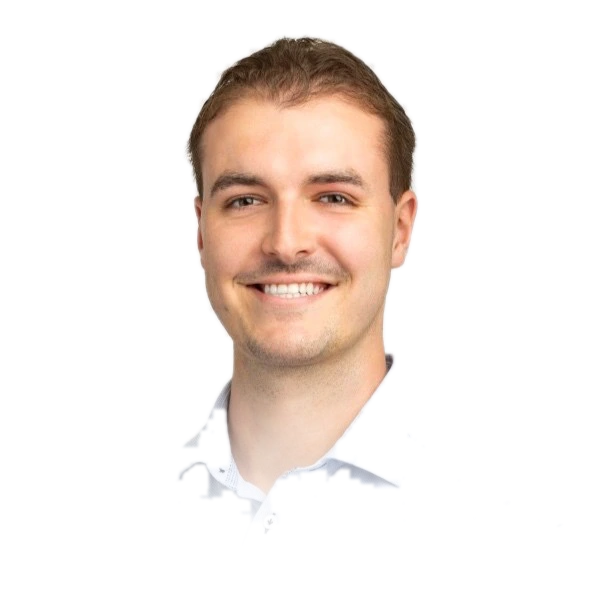
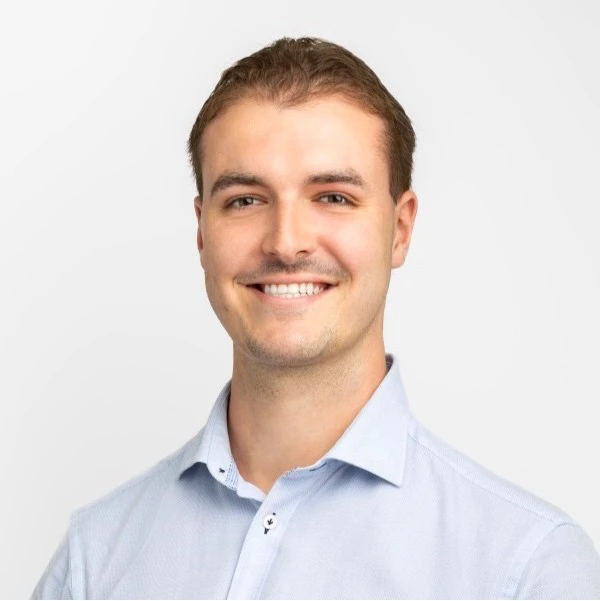
feat: portfolio polish - real photo, career facts, Daily OS diagram
Hero: swapped the background-removed cutout for the original photo
(framed, not floating) per feedback that the cutout looked bad. Tightened
hero padding so content sits closer to the nav. Dropped "cameras that
wait for good light" and "builder" as jargon. Role line and SEO title now
reflect the actual current role (Graduate Data & AI Analyst at Quantium)
instead of a generic self-description.

Work section: Daily OS moved ahead of Computer Vision. Added a native
architecture diagram for Daily OS (entry points -> Gemini/Claude routing
-> Supabase -> deterministic portfolio-agent -> daily surfaces), verified
against the actual codebase and fixed two rendering overlaps found during
review. Trimmed the finance paragraph to a plain one-liner per request.

Education: dropped the "Engineering rigour / commercial eye" headline,
no longer needed with the section already labelled by its kicker.

About: rewritten away from the "X by default, Y by design" tagline
pattern into something that reads like an actual person wrote it.

Fixed doubled section padding that was leaving a large gap between the
photography case and the education section.

Changed region(s): [[0.03, 0.599, 1.0, 1.0], [0.3, 0.2696, 0.33, 0.2995], [0.3, 0.2097, 0.33, 0.2396]]

diff --git a/src/PortfolioPage.tsx b/src/PortfolioPage.tsx
@@ -17,8 +17,8 @@ const REPORTS = {
 
 const JUMP_LINKS = [
   { n: "01", when: "2025", title: "Honours thesis", note: "First Class · UAV vision", href: "#thesis" },
-  { n: "02", when: "2024", title: "Computer vision", note: "AMME5710 major project", href: "#vision" },
-  { n: "03", when: "Ongoing", title: "Daily OS", note: "AI-run personal dashboard", href: "#dailyos" },
+  { n: "02", when: "Ongoing", title: "Daily OS", note: "AI-run personal dashboard", href: "#dailyos" },
+  { n: "03", when: "2024", title: "Computer vision", note: "AMME5710 major project", href: "#vision" },
   { n: "04", when: "2021 –", title: "Photography", note: "samduckworth.com", href: "#photography" },
 ];
 
@@ -120,6 +120,89 @@ function ThesisPipelineDiagram() {
   );
 }
 
+function DailyOSArchitectureDiagram() {
+  return (
+    <svg className="pipeline-diagram" viewBox="0 0 1100 420" role="img" aria-labelledby="daily-os-title">
+      <title id="daily-os-title">Daily OS architecture: input capture, AI routing, Supabase, deterministic finance engine, daily surfaces</title>
+      <defs>
+        <marker id="do-arrow" viewBox="0 0 8 8" refX="7" refY="4" markerWidth="7" markerHeight="7" orient="auto-start-reverse">
+          <path d="M0,0 L8,4 L0,8 Z" className="pd-arrowhead" />
+        </marker>
+      </defs>
+
+      <g className="pd-box">
+        <rect x="16" y="145" width="150" height="100" rx="6" />
+        <text x="91" y="131" className="pd-label">Entry points</text>
+        <text x="91" y="185" className="pd-line">Chat &amp; quick-add</text>
+        <text x="91" y="209" className="pd-line pd-muted">Gmail</text>
+      </g>
+
+      <path d="M166,175 C195,175 195,102 220,102" className="pd-edge" markerEnd="url(#do-arrow)" />
+      <path d="M166,215 C195,215 195,280 220,280" className="pd-edge" markerEnd="url(#do-arrow)" />
+
+      <g className="pd-box">
+        <rect x="220" y="30" width="190" height="145" rx="6" />
+        <text x="315" y="16" className="pd-label">Gemini 2.5 Flash</text>
+        {["add_task", "add_transaction", "add_subscription"].map((m, i) => (
+          <g key={m}>
+            <rect x="238" y={48 + i * 38} width="154" height="30" rx="4" className="pd-chip" />
+            <text x="315" y={48 + i * 38 + 20} className="pd-chip-text">{m}</text>
+          </g>
+        ))}
+      </g>
+
+      <g className="pd-box">
+        <rect x="220" y="225" width="190" height="110" rx="6" />
+        <text x="315" y="211" className="pd-label">Claude agent</text>
+        <text x="315" y="257" className="pd-line">Gmail → tasks, daily</text>
+        <text x="315" y="281" className="pd-line pd-muted">evidence-gated memory</text>
+      </g>
+
+      <path d="M410,102 C445,102 445,140 470,140" className="pd-edge" markerEnd="url(#do-arrow)" />
+      <path d="M410,280 C445,280 445,220 470,220" className="pd-edge" markerEnd="url(#do-arrow)" />
+
+      <g className="pd-box">
+        <rect x="470" y="90" width="210" height="175" rx="6" />
+        <text x="575" y="76" className="pd-label">Supabase Postgres</text>
+        <text x="575" y="112" className="pd-line pd-muted">Row-level security · every table</text>
+        {["tasks", "transactions", "agent_memories"].map((m, i) => (
+          <g key={m}>
+            <rect x="488" y={128 + i * 36} width="174" height="28" rx="4" className="pd-chip" />
+            <text x="575" y={128 + i * 36 + 19} className="pd-chip-text">{m}</text>
+          </g>
+        ))}
+      </g>
+
+      <path d="M575,265 V310" className="pd-edge" markerEnd="url(#do-arrow)" />
+      <text x="700" y="285" className="pd-tag">pg_cron</text>
+
+      <g className="pd-box">
+        <rect x="470" y="310" width="210" height="80" rx="6" className="pd-output" />
+        <text x="575" y="342" className="pd-line pd-output-text">RSI · MACD · Bollinger</text>
+        <text x="575" y="366" className="pd-line pd-output-text pd-muted-light">Ledoit-Wolf · max-Sharpe · VaR</text>
+      </g>
+      <text x="575" y="296" className="pd-label" textAnchor="middle">portfolio-agent</text>
+
+      <path d="M480,310 H430 V175 H380" className="pd-edge pd-dashed" markerEnd="url(#do-arrow)" />
+      <text x="430" y="252" className="pd-tag" transform="rotate(-90 430 252)">narrate only</text>
+
+      <path d="M680,177 H760" className="pd-edge" markerEnd="url(#do-arrow)" />
+      <path d="M680,350 C720,350 720,129 760,129" className="pd-edge pd-loop" markerEnd="url(#do-arrow)" />
+
+      <g className="pd-box">
+        <rect x="760" y="50" width="210" height="170" rx="6" />
+        <text x="865" y="36" className="pd-label">Daily surfaces</text>
+        {["Task list", "Finance dashboard", "Morning briefing (Slack)"].map((m, i) => (
+          <g key={m}>
+            <rect x="778" y={68 + i * 44} width="174" height="34" rx="4" className="pd-chip" />
+            <text x="865" y={68 + i * 44 + 21} className="pd-chip-text">{m}</text>
+          </g>
+        ))}
+      </g>
+    </svg>
+  );
+}
+
 function TaskDashboardMockup() {
   const tasks = [
     ["Review prototype test results", "Today · 10:30", "important"],
@@ -200,7 +283,7 @@ export default function PortfolioPage() {
   const [dashboardView, setDashboardView] = useState<"tasks" | "finance">("tasks");
   const [photos, setPhotos] = useState<Photo[]>([]);
 
-  useSeo("Sam Duckworth | Engineer, Builder & Photographer", {
+  useSeo("Sam Duckworth | Data & AI Analyst and Photographer", {
     path: "/portfolio",
     image: "/portfolio/og.png",
     description: "The professional portfolio of Sam Duckworth: mechatronic engineering, computer vision, autonomous systems, agentic software and photography.",
@@ -228,8 +311,8 @@ export default function PortfolioPage() {
         <div className="portfolio-hero-copy">
           <p className="portfolio-kicker">Mechatronic Engineering &amp; Commerce · Sydney, Australia</p>
           <h1 id="portfolio-title">Sam Duckworth</h1>
-          <p className="portfolio-hero-role">Mechatronics engineer, builder and photographer.</p>
-          <p className="portfolio-intro">I&rsquo;m a First Class Honours engineering graduate who likes building things that think a little for themselves: drones that see in the dark, a dashboard that writes its own to-do list, cameras that wait for good light. Somewhere between an engineering degree and a finance one I got hooked on AI and agentic systems, and that thread runs through most of what&rsquo;s below.</p>
+          <p className="portfolio-hero-role">Graduate Data &amp; AI Analyst at Quantium, photographer on the side.</p>
+          <p className="portfolio-intro">I&rsquo;m a First Class Honours engineering graduate who likes building things that think a little for themselves: drones that see in the dark, a dashboard that writes its own to-do list. Somewhere between an engineering degree and a finance one I got hooked on AI and agentic systems, and that thread runs through most of what&rsquo;s below.</p>
           <div className="portfolio-hero-meta">
             <span>BE (Mechatronic) &amp; BCom, Finance</span>
             <span>First Class Honours</span>
@@ -274,8 +357,27 @@ export default function PortfolioPage() {
           </div>
         </article>
 
-        <article className="portfolio-case tennis-case" id="vision">
+        <article className="portfolio-case dashboard-case" id="dailyos">
           <div className="portfolio-case-number">02</div>
+          <div className="portfolio-case-copy dashboard-copy">
+            <p className="portfolio-case-type"><LockKeyhole size={14} /> Private product · Agentic workflows · Ongoing</p>
+            <h3>Daily OS</h3>
+            <p className="portfolio-case-deck">The private dashboard I actually use every day, with the boring parts run by agents.</p>
+            <p>Tasks, finance, budgeting and a morning briefing, one login instead of six apps. Type a task, a trade or a bill in plain English and Gemini 2.5 Flash sorts out what it is and where it belongs. A scheduled Claude agent reads my inbox each morning and turns emails into tasks on its own, checked against a namespaced memory table that only trusts a sender once it has seen enough consistent evidence.</p>
+            <p>On the finance side it tracks my stock positions and portfolio performance, and surfaces the metrics and market updates that actually matter, no spreadsheet required.</p>
+            <div className="portfolio-tags">{['Next.js', 'TypeScript', 'Supabase', 'PostgreSQL', 'Gemini 2.5', 'Claude agents', 'Portfolio tracking', 'Vercel'].map((tag) => <span key={tag}>{tag}</span>)}</div>
+          </div>
+          <div className="dashboard-showcase">
+            <div className="dashboard-switch"><button className={dashboardView === "tasks" ? "is-active" : ""} onClick={() => setDashboardView("tasks")} type="button">Task workspace</button><button className={dashboardView === "finance" ? "is-active" : ""} onClick={() => setDashboardView("finance")} type="button">Finance workspace</button><span><LockKeyhole size={12} /> Mockup · dummy data</span></div>
+            {dashboardView === "tasks" ? <TaskDashboardMockup /> : <FinanceDashboardMockup />}
+          </div>
+          <div className="portfolio-architecture">
+            <DailyOSArchitectureDiagram />
+          </div>
+        </article>
+
+        <article className="portfolio-case tennis-case" id="vision">
+          <div className="portfolio-case-number">03</div>
           <div className="portfolio-case-copy">
             <p className="portfolio-case-type"><Layers3 size={14} /> AMME5710 · Computer Vision major project</p>
             <h3>Autonomous Tennis Analysis</h3>
@@ -289,22 +391,6 @@ export default function PortfolioPage() {
             <img src="/portfolio/images/tennis-architecture.webp" alt="System architecture for the autonomous tennis analysis pipeline" loading="lazy" />
             <figcaption>Classification → court &amp; corner detection → player/ball tracking → homography → bird&rsquo;s-eye overlay.</figcaption>
           </figure>
-        </article>
-
-        <article className="portfolio-case dashboard-case" id="dailyos">
-          <div className="portfolio-case-number">03</div>
-          <div className="portfolio-case-copy dashboard-copy">
-            <p className="portfolio-case-type"><LockKeyhole size={14} /> Private product · Agentic workflows · Ongoing</p>
-            <h3>Daily OS</h3>
-            <p className="portfolio-case-deck">The private dashboard I actually use every day, with the boring parts run by agents.</p>
-            <p>Tasks, finance, budgeting and a morning briefing, one login instead of six apps. Type a task, a trade or a bill in plain English and Gemini 2.5 Flash sorts out what it is and where it belongs. A scheduled Claude agent reads my inbox each morning and turns emails into tasks on its own, checked against a namespaced memory table that only trusts a sender once it has seen enough consistent evidence.</p>
-            <p>The finance side keeps AI away from the maths: holdings rebuild live from raw transactions, and a separate engine handles the real quant work, RSI, MACD, Bollinger bands, Ledoit-Wolf covariance shrinkage, max-Sharpe and risk-parity optimisation. Gemini is only ever allowed to narrate numbers that engine already computed, never invent its own.</p>
-            <div className="portfolio-tags">{['Next.js', 'TypeScript', 'Supabase', 'PostgreSQL', 'Gemini 2.5', 'Claude agents', 'Quant finance', 'Vercel'].map((tag) => <span key={tag}>{tag}</span>)}</div>
-          </div>
-          <div className="dashboard-showcase">
-            <div className="dashboard-switch"><button className={dashboardView === "tasks" ? "is-active" : ""} onClick={() => setDashboardView("tasks")} type="button">Task workspace</button><button className={dashboardView === "finance" ? "is-active" : ""} onClick={() => setDashboardView("finance")} type="button">Finance workspace</button><span><LockKeyhole size={12} /> Mockup · dummy data</span></div>
-            {dashboardView === "tasks" ? <TaskDashboardMockup /> : <FinanceDashboardMockup />}
-          </div>
         </article>
 
         <article className="portfolio-case photography-case" id="photography">
@@ -326,7 +412,7 @@ export default function PortfolioPage() {
       </section>
 
       <section className="portfolio-education" id="education">
-        <div className="portfolio-section-heading"><p className="portfolio-kicker">Education / University of Sydney</p><h2>Engineering rigour.<br />A commercial eye.</h2></div>
+        <div className="portfolio-section-heading portfolio-section-heading-compact"><p className="portfolio-kicker">Education / University of Sydney</p></div>
         <div className="portfolio-degree">
           <div>
             <span>2021–2025</span>
@@ -349,9 +435,9 @@ export default function PortfolioPage() {
         <div className="portfolio-about-image"><img src="/about-sam.webp" alt="Sam Duckworth" loading="lazy" /></div>
         <div className="portfolio-about-copy">
           <p className="portfolio-kicker">About Sam</p>
-          <h2>Curious by default.<br />Practical by design.</h2>
-          <p>I like taking ambiguous problems from first principles to a working answer, whether that&rsquo;s a vision pipeline that won&rsquo;t converge, a dashboard that should just handle itself, or waiting for the right light over Sydney&rsquo;s coastline. Most of what I build ends up a little bit agentic, on purpose.</p>
-          <div className="portfolio-about-details"><span><MapPin size={14} /> Sydney, Australia</span><span><Check size={14} /> Engineering · Product · Photography</span></div>
+          <h2>Still take things apart to see how they work.</h2>
+          <p>These days it&rsquo;s drones, dashboards and code instead of whatever was lying around the house growing up, but the instinct hasn&rsquo;t changed: pull it apart, figure out why it&rsquo;s broken, put it back together better. Photography&rsquo;s the one hobby that has nothing to do with debugging anything, which is probably why I like it. Based in Sydney, usually got something on the side.</p>
+          <div className="portfolio-about-details"><span><MapPin size={14} /> Sydney, Australia</span><span><Check size={14} /> Engineering · Data &amp; AI · Photography</span></div>
         </div>
       </section>
 

diff --git a/src/styles.css b/src/styles.css
@@ -256,12 +256,19 @@ main {
   grid-template-columns: minmax(220px, .8fr) minmax(0, 1.6fr);
   align-items: end;
   gap: clamp(28px, 5vw, 76px);
-  min-height: min(calc(100svh - 74px), 920px);
-  padding: clamp(56px, 9vw, 110px) clamp(20px, 4vw, 64px) 48px;
+  padding: clamp(32px, 4vw, 52px) clamp(20px, 4vw, 64px) clamp(40px, 5vw, 56px);
 }
 
 .portfolio-hero-portrait { display: flex; justify-content: center; }
-.portfolio-hero-portrait img { width: 100%; max-width: 340px; height: auto; object-fit: contain; filter: drop-shadow(0 30px 60px rgba(var(--shade-rgb), .22)); }
+.portfolio-hero-portrait img {
+  width: 100%;
+  max-width: 320px;
+  aspect-ratio: 4 / 5;
+  object-fit: cover;
+  object-position: 50% 22%;
+  border: 1px solid var(--line);
+  box-shadow: 0 24px 50px rgba(var(--shade-rgb), .16);
+}
 
 .portfolio-hero-copy { max-width: 1120px; }
 .portfolio-kicker { margin: 0 0 22px; color: var(--sea); }
@@ -373,7 +380,7 @@ main {
   text-transform: uppercase;
 }
 
-.portfolio-work,
+.portfolio-work { padding: clamp(90px, 12vw, 170px) clamp(20px, 4vw, 64px) clamp(36px, 5vw, 60px); }
 .portfolio-education { padding: clamp(90px, 12vw, 170px) clamp(20px, 4vw, 64px); }
 .portfolio-section-heading { display: block; margin-bottom: clamp(72px, 10vw, 130px); }
 .portfolio-section-heading .portfolio-kicker { margin: 0 0 22px; }
@@ -450,6 +457,10 @@ main {
 .pd-tag { fill: var(--sea); font: 600 10px var(--font-mono); letter-spacing: .08em; text-transform: uppercase; }
 .pd-output { fill: var(--ink); }
 .pd-line.pd-output-text { fill: var(--paper); font-weight: 600; }
+.pd-line.pd-output-text.pd-muted-light { font-weight: 500; opacity: .68; }
+
+.portfolio-architecture { grid-column: 2 / -1; margin: 8px 0 0; padding: clamp(24px, 4vw, 44px); background: var(--paper-deep); }
+.portfolio-architecture .pipeline-diagram { width: 100%; height: auto; }
 
 .portfolio-research-metrics { display: grid; grid-template-columns: repeat(4, 1fr); gap: clamp(16px, 2.5vw, 28px); }
 .portfolio-research-metrics span { display: grid; gap: 5px; padding-bottom: 18px; border-bottom: 1px solid var(--line); color: var(--ink-soft); font: 500 .68rem/1.4 var(--font-mono); letter-spacing: .06em; text-transform: uppercase; }
@@ -590,7 +601,8 @@ main {
   .portfolio-tennis-visual,
   .dashboard-showcase,
   .portfolio-photo-grid { grid-column: 2; }
-  .portfolio-findings { grid-column: 2; }
+  .portfolio-findings,
+  .portfolio-architecture { grid-column: 2; }
   .portfolio-photo-grid { min-height: 600px; }
 }
 
@@ -607,7 +619,8 @@ main {
   .portfolio-tennis-visual,
   .dashboard-showcase,
   .portfolio-photo-grid,
-  .portfolio-findings { grid-column: 1; }
+  .portfolio-findings,
+  .portfolio-architecture { grid-column: 1; }
   .portfolio-research-metrics { grid-template-columns: repeat(2, 1fr); }
   .portfolio-findings { grid-template-columns: 1fr; gap: 26px; }
   .dashboard-switch { flex-wrap: wrap; }
